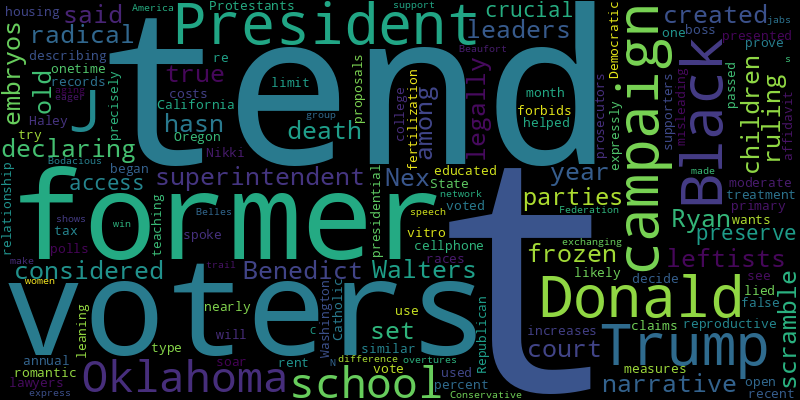
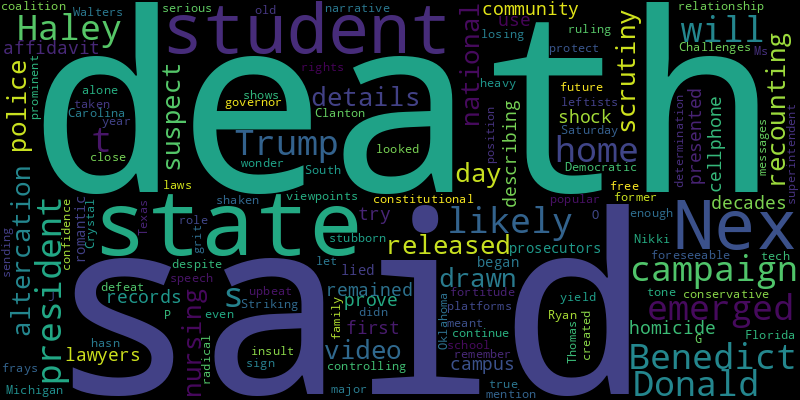
chore(bot): 👿 auto commit

diff --git a/README.md b/README.md
@@ -2,29 +2,29 @@
 Auto RSS New York Times and Generate Word Cloud
 
 ## New York Times Global News
+* For more than a decade, the United States has nurtured a secret intelligence partnership with Ukraine that is now critical for both countries in countering Russia.
+* Homesh, one of the four West Bank settlements dismantled by Israel when it withdrew from Gaza in 2005, has taken on new importance since Oct. 7 and the war against Hamas.
+* Despite death, destruction and deprivation, nearly 90 percent still believe in Ukraine’s ultimate victory — as long as Western aid continues.
+* For the first time, women professional softball players in Latin America have a league of their own, another gain for women seeking more opportunities.
+* She watched, distressed, as Aleksei was sent off to war. Now, 14 months after he died in eastern Ukraine, Yulia Seleznyova holds a sliver of hope for a miracle.
+* The allies said their attacks, the largest in weeks against the Iran-backed militia, were meant to prevent further attacks on ships in the Red Sea.
+* Two years after Russia’s full-scale invasion, Ukrainian leaders are seeking a path forward in the face of ferocious assaults and daunting unknowns.
+* Rape, killing, torture: A stark report offers new evidence of horrific abuses carried out by Sudan’s military and its enemy, the paramilitary Rapid Support Forces.
+* A fire that killed at least 10 people left many refugees from Ukraine without a home and others scrambling to rebuild their lives.
 * Western sanctions haven’t worked. Weapons from allies are running low. Pressure may build on Kyiv to seek a settlement, even from a weakened position.
-* After nearly two years and only scraps of information, a Ukrainian family still hopes their son, a marine captured by the Russians in Mariupol, will come home soon.
-* “It is a public health concern,” one U.N. official said of the lack of toilets for displaced people in the territory. “But the second thing is simply just dignity.”
-* The proposal, which calls for indefinite Israeli military control and buffer zones in the territory, rankled Arab nations and was rejected by Palestinians.
-* The country’s lower leagues offer a tempting entry to ownership. But the sport’s economics mean even multimillionaires can struggle to compete.
-* Viktor Orban, the Hungarian prime minister, said after a meeting with Sweden’s leader, and a deal for more fighter jets, that the two countries are “ready to fight for each other.”
-* Russia’s invasion came in two phases, many Ukrainians say: the first a decade ago, when it sent soldiers over the border in an unacknowledged military intervention, and the second when it began its full assault two years ago.
-* Vladimir Putin is drawing on history to position himself in the realm of Russian rulers of the past. Critics say his grip on power is not as strong as it seems.
-* Two years of war produced thousands of damaged brains. We followed surgeons and soldiers on the road to recovery.
-* While Israeli forces have delivered a major blow to Hamas in a fight that has taken a devastating toll on civilians, the group that led the Oct. 7 attack on Israel remains a threat, officials say.
 
 ![Global](./global.png)
 ## New York Times United States News
-* The Oklahoma school superintendent, Ryan Walters, said “radical leftists” had created a narrative about the death of 16-year-old Nex Benedict that “hasn’t been true.”
-* A court ruling declaring frozen embryos to be legally considered children has set off a scramble among leaders in both parties to preserve access to a crucial reproductive treatment.
+* The police released video of the student, Nex Benedict, recounting the altercation a day before their death, which has drawn national scrutiny.
+* As more details emerged about the suspect in the death of a nursing student, the community remained in shock of the first homicide on the campus in decades.
 * The lawyers presented an affidavit describing cellphone records they will likely use to try to prove the prosecutors lied about when they began a romantic relationship.
-* As housing costs soar, Washington State wants to limit annual rent increases to 7 percent. Oregon and California have passed similar measures.
-* If you voted in the Democratic primary this month, you can’t vote in the Republican one, too.
-* Her supporters tend to be moderate and college educated — precisely the type of voters who have helped decide recent presidential races. We spoke with nearly 40 to see where they’re leaning.
-* While Catholic teaching expressly forbids in vitro fertilization, Protestants tend to be more open.
-* Nikki Haley and her onetime boss, former President Donald J. Trump, have used false and misleading claims about polls and tax proposals while exchanging jabs on the campaign trail.
-* The Bodacious Belles, a women’s group in Beaufort, N.C., shows the difference a network of support can make in an aging America.
-* In a speech to the Black Conservative Federation, former President Donald J. Trump made express overtures to Black voters, whom he and his campaign are eager to win over.
+* The Oklahoma school superintendent, Ryan Walters, said “radical leftists” had created a narrative about the death of 16-year-old Nex Benedict that “hasn’t been true.”
+* The former president shows no sign of being shaken from his controlling position in the G.O.P. — not in 2024, and not in the foreseeable future.
+* Challenges to laws in Florida and Texas meant to protect conservative viewpoints are likely to yield a major constitutional ruling on tech platforms’ free speech rights.
+* The Michigan governor, who has taken a prominent role in the president’s campaign, is popular in her state. But as the Democratic coalition frays, some wonder if that will be enough.
+* Nikki Haley’s fortitude after losing her home state on Saturday looked more like stubborn grit and determination than upbeat confidence. Donald J. Trump didn’t even mention her, let alone insult her.
+* Striking a more serious tone, Ms. Haley said she would continue her campaign despite a heavy defeat to Donald Trump in South Carolina, her home state.
+* Crystal Clanton, who is close with the Thomas family, has said she does not remember sending the messages, which emerged in 2017.
 
 ![US](./usnews.png)
 ## New York Times Asia News
